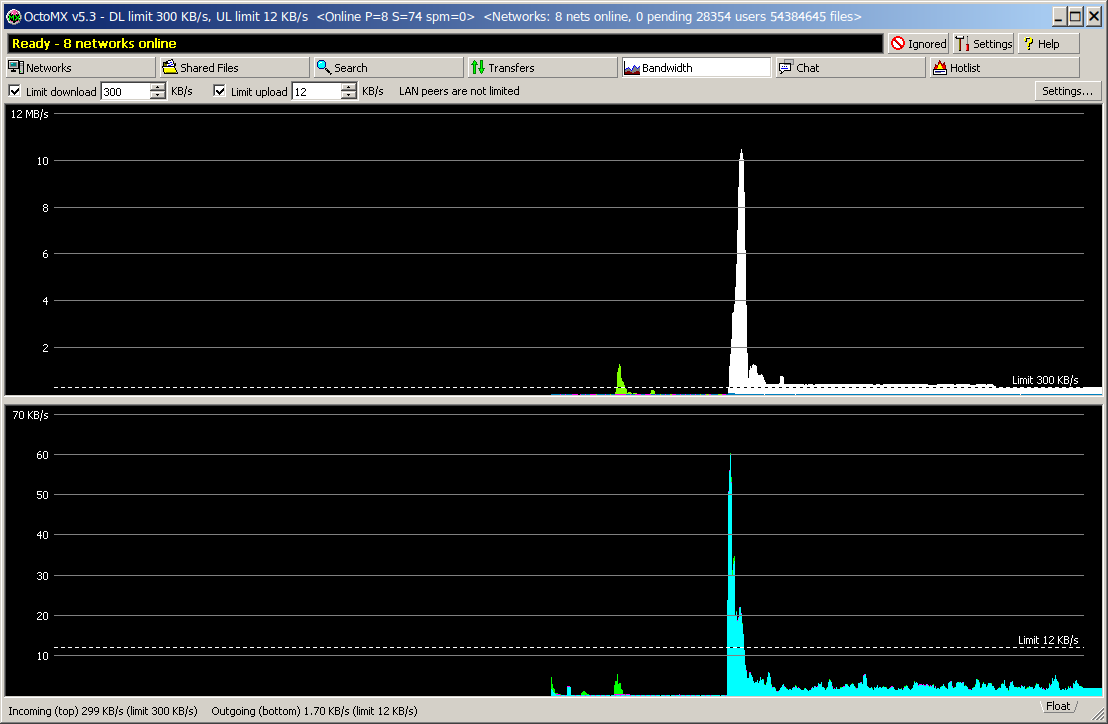
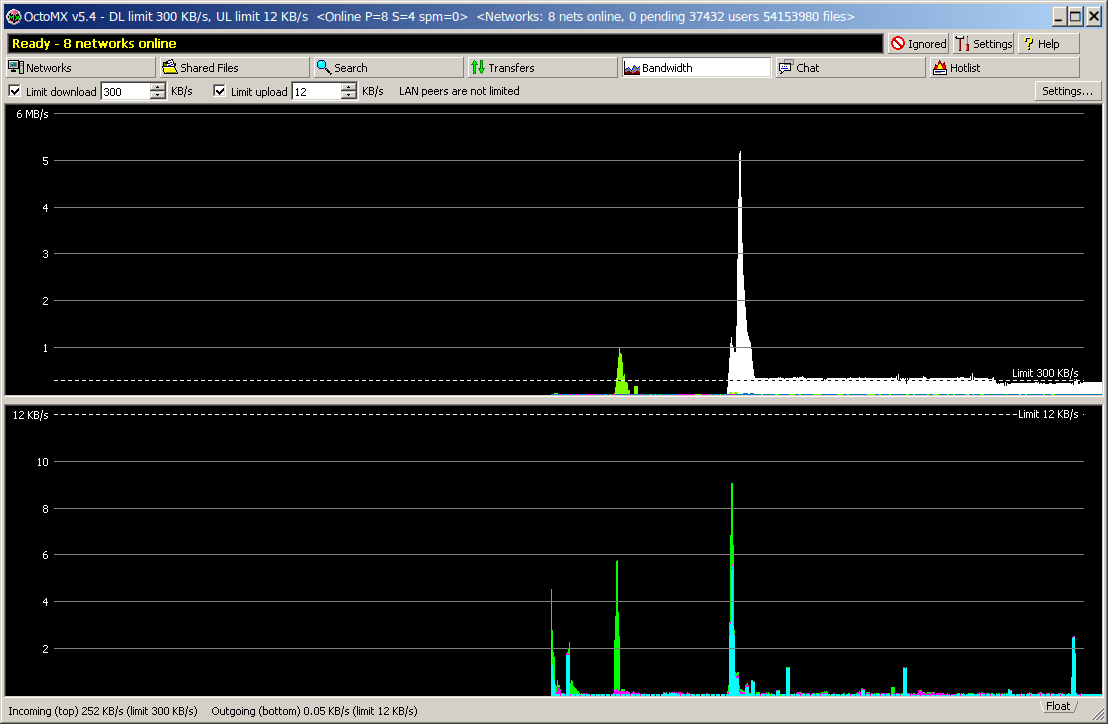
OctoMX 5.4: version and README pictures

diff --git a/src/ui/update_ui.h b/src/ui/update_ui.h
@@ -7,9 +7,9 @@
 // at most once a day unless updates/mode is "off", stays quiet unless a newer version that was not
 // skipped exists, and logs one line otherwise. What a newer release does depends on updates/mode:
 //   auto   (default) download it quietly, check the signature, unpack and check it next to the
-//          program, then the box "OctoMX 5.4 is ready to install" with Restart Now / Later / Skip
+//          program, then the box "OctoMX 5.5 is ready to install" with Restart Now / Later / Skip
 //          This Version (Later: installed when OctoMX is closed, a tray balloon says so once)
-//   ask    the box "OctoMX 5.4 is available" with Update Now (progress bar, then the same restart
+//   ask    the box "OctoMX 5.5 is available" with Update Now (progress bar, then the same restart
 //          question) / Remind Me Later / Skip This Version and the download page as a link
 //   notify the classic message box: Open Download Page / Remind Me Later / Skip This Version
 //   off    no check at start; Help ▸ Check for Updates... still asks
@@ -19,7 +19,7 @@
 // The install itself runs when OctoMX closes (finishOnExit(), called by main.cpp after the core has
 // shut down); after Restart Now the new version is started with the same options. At the next start
 // startupRecovery() finishes or undoes an interrupted swap and removes the old files; the first
-// start after an update shows "Updated to OctoMX 5.4" with a What's New link.
+// start after an update shows "Updated to OctoMX 5.5" with a What's New link.
 //
 // Network policy (tests and scripted runs never contact GitHub): the app sets On for a real core with
 // a user profile, IfUrlSet for a test or scripted run (MX_OS_ROOT is set), Off for
@@ -63,8 +63,8 @@ public:
     enum class State { Idle, Checking, Downloading, Preparing, Ready };
     struct Offer {
         Kind kind = Kind::Notify;
-        QString version;   // "5.4"
-        QString current;   // "5.3"
+        QString version;   // "5.5"
+        QString current;   // "5.4"
         QString notes;     // plain text excerpt
         QString pageUrl;   // what Open Download Page / What's New opens
         QString reason;    // why there is no automatic install (Notify), empty otherwise
@@ -88,11 +88,11 @@ public:
     bool startCheckDue() const;
     void scheduleStartCheck(int delayMs = -1);
     bool isChecking() const;
-    QString currentVersion() const;   // MX_VERSION_FULL, e.g. "5.3.0"
+    QString currentVersion() const;   // MX_VERSION_FULL, e.g. "5.4.0"
     QString mode() const;             // updates/mode: auto | ask | notify | off
     State state() const { return m_state; }
     QString readyVersion() const;     // the prepared update (State::Ready)
-    // one line for the About box: "OctoMX 5.3 is up to date" / "OctoMX 5.4 is available" / ...
+    // one line for the About box: "OctoMX 5.4 is up to date" / "OctoMX 5.5 is available" / ...
     QString statusLine() const;
 
     // show what a check with this answer would show (manual = the answers of Help ▸ Check for

diff --git a/src/ui/dialogs/about_dialog.cpp b/src/ui/dialogs/about_dialog.cpp
@@ -46,7 +46,7 @@ AboutDialog::AboutDialog(mx::Core *core, QWidget *parent) : QDialog(parent)
                            core->isMock() ? tr("\nDemo mode: no network connections are made.") : QString()));
     info->setObjectName(QStringLiteral("aboutText"));
     info->setGeometry(SR(56, 30, 450, 106));
-    // [upd-1] what the update check found, right of the title: "OctoMX 5.3 is up to date." / "... 5.4 is available ..."
+    // [upd-1] what the update check found, right of the title: "OctoMX 5.4 is up to date." / "... 5.5 is available ..."
     if (UpdateController *u = UpdateController::of(qobject_cast<MainWindow *>(parent))) {
         auto *upd = new QLabel(u->statusLine(), this);
         upd->setObjectName(QStringLiteral("aboutUpdateStatus"));

diff --git a/src/api/mx/types.h b/src/api/mx/types.h
@@ -16,10 +16,10 @@
 // [post-1] defined by the top-level CMakeLists.txt from project(OctoMX VERSION ...); these
 // fallbacks only serve a build without it
 #ifndef MX_VERSION_FULL
-#define MX_VERSION_FULL "5.3.0"
+#define MX_VERSION_FULL "5.4.0"
 #endif
 #ifndef MX_VERSION_STRING
-#define MX_VERSION_STRING "5.3"
+#define MX_VERSION_STRING "5.4"
 #endif
 
 namespace mx {

diff --git a/docs/UI_SPEC.md b/docs/UI_SPEC.md
@@ -1473,7 +1473,7 @@ Fidelity checks must treat these as intentional (the classic forms stay reachabl
   "Load Standard ... Defaults" buttons choose the theme and reset every colour.
 * **Help button** [post-1]: a click pops a small menu `About OctoMX...` (bold default) / `Check for
   Updates...` (F1 still opens About directly); the About box has `Check for Updates...` left of OK.
-  The update box is a classic message box titled `OctoMX`: "OctoMX 5.4 is available (you have 5.3)."
+  The update box is a classic message box titled `OctoMX`: "OctoMX 5.5 is available (you have 5.4)."
   with the first lines of the release notes as plain text and `Open Download Page` / `Remind Me Later`
   / `Skip This Version`. Settings ▸ Miscellaneous ▸ System Integration has an `Updates` group with
   "Check for a new version at start (at most once a day)" (updates/checkAtStart, default on).
@@ -1485,19 +1485,19 @@ Fidelity checks must treat these as intentional (the classic forms stay reachabl
   downloading a new version` (ask) / `Only tell me, I install it myself` (notify, the classic box) / `Do
   not check at start` (off). A profile with the earlier check box off gets `off` (migrated once).
   auto: the start check downloads a newer signed release quietly, then a small box titled `OctoMX`
-  (information icon, plain text) says "OctoMX 5.4 is ready to install (you have 5.3)." with the
+  (information icon, plain text) says "OctoMX 5.5 is ready to install (you have 5.4)." with the
   first lines of the release notes, "The download was checked against the OctoMX release
   signature.", with running downloads "Your 3 running downloads continue after the restart.", and
   `Restart Now` (default) / `Later` / `Skip This Version`; Later (also Escape or the close button)
   installs it when OctoMX is closed and a tray balloon says so once. ask, and always for Help ▸ Check
-  for Updates...: "OctoMX 5.4 is available (you have 5.3)." with `Update Now` (a box with a progress
+  for Updates...: "OctoMX 5.5 is available (you have 5.4)." with `Update Now` (a box with a progress
   bar, `Hide` / `Cancel`, then the ready box) / `Remind Me Later` / `Skip This Version` and `Open
   Download Page` as a link below the text. When the program cannot install a release itself (not a
   published package, a folder it cannot write, a release without signature, a download or check that
   failed), the classic box appears with the reason above the last line. The first start after an update
-  shows "Updated to OctoMX 5.4 (from 5.3)." with `What's New` (the release page) / `OK`. The About
-  box has one line under the description: "OctoMX 5.3 is up to date." / "OctoMX 5.4 is available
-  (you have 5.3)." / "... is ready to install ..." / "..., not checked for updates yet.".
+  shows "Updated to OctoMX 5.5 (from 5.4)." with `What's New` (the release page) / `OK`. The About
+  box has one line under the description: "OctoMX 5.4 is up to date." / "OctoMX 5.5 is available
+  (you have 5.4)." / "... is ready to install ..." / "..., not checked for updates yet.".
   Deviations: these boxes are not part of WinMX 3.53 (it had no updater); they are drawn as classic
   message boxes with our own buttons. Deliberate choices: the staging folder is inside the program
   folder (`.new-<version>`, same volume, only the program folder must be writable) instead of next
@@ -1684,7 +1684,7 @@ Fidelity checks must treat these as intentional (the classic forms stay reachabl
   BitTorrent piece hashes)`. With the setting `search/mergeByNameAndSize` off (default on), only plain
   files with equal normalised names merge (a bundle never meets a non-bundle).
 * **The name OctoMX** [ren-1] (owner: "as a name I choose OctoMX"; "OctoMX is the only version and
-  name we use"): every place where the program names itself says OctoMX (title `OctoMX v5.3`,
+  name we use"): every place where the program names itself says OctoMX (title `OctoMX v5.4`,
   `About OctoMX...`, `Exit OctoMX`, message box titles, the `OctoMX Peer Network` tabs and pages, the
   network name `OctoMX` in the Network columns, the default room `OctoMX Lobby`). Where it describes
   itself it says that its interface is in the style of the classic WinMX, with the statement that it

diff --git a/README.md b/README.md
@@ -36,7 +36,7 @@ responsibility; the authors are not responsible for the content exchanged with i
 start the program asks you to accept these terms before it connects to any network. See
 [Legal](#legal).
 
-Version 5.3 for Windows 10/11 (64-bit) and Linux (x86_64). Project page:
+Version 5.4 for Windows 10/11 (64-bit) and Linux (x86_64). Project page:
 https://github.com/robtacconelli/OctoMX
 
 > **Licence:** OctoMX is free software under the **GNU General Public License v3.0 or later**
@@ -61,8 +61,8 @@ found); the "Filter results" field narrows the list:
 
 ![Search results for Big Buck Bunny from several networks, one merged row opened, filtered](docs/screenshots/search.png)
 
-That row downloading: one download fed by a BitTorrent swarm and a Kad source at the same time,
-with one line per source and per network. The bar in the Status column is a map of the file: blue
+A merged row downloading: one download fed by an eD2k source, a BitTorrent swarm and the Internet
+Archive's HTTP mirror at the same time, with one line per source and per network. The bar in the Status column is a map of the file: blue
 parts are on disk and verified, green ones are arriving right now. A download limit of 450 KB/s
 is set (title bar). In the classic dark colours and in the light theme:
 
@@ -88,9 +88,9 @@ built-in demo data:
 
 | | |
 |---|---|
-| **Windows** | Unzip `OctoMX-5.3-win64.zip` anywhere and double-click `octomx.exe`. Nothing is installed. Windows Firewall may ask whether OctoMX may accept connections. |
-| **Linux** | `tar xf OctoMX-5.3-linux-x86_64.tar.xz` and run `OctoMX-5.3-linux-x86_64/octomx`. Qt does not need to be installed. Run `./install-desktop-entry.sh` once for a menu entry and icon. |
-| **macOS** | Unzip `OctoMX-5.3-macos-universal.zip` (one app for Apple Silicon and Intel Macs, macOS 14.4 or newer) and drag `OctoMX.app` into Applications. The first time, right-click `OctoMX.app` and choose **Open**, then **Open** again (on macOS 15: System Settings > Privacy & Security > **Open Anyway**): the app has no Apple Developer ID signature. `README-mac.txt` in the archive has the details. |
+| **Windows** | Unzip `OctoMX-5.4-win64.zip` anywhere and double-click `octomx.exe`. Nothing is installed. Windows Firewall may ask whether OctoMX may accept connections. |
+| **Linux** | `tar xf OctoMX-5.4-linux-x86_64.tar.xz` and run `OctoMX-5.4-linux-x86_64/octomx`. Qt does not need to be installed. Run `./install-desktop-entry.sh` once for a menu entry and icon. |
+| **macOS** | Unzip `OctoMX-5.4-macos-universal.zip` (one app for Apple Silicon and Intel Macs, macOS 14.4 or newer) and drag `OctoMX.app` into Applications. The first time, right-click `OctoMX.app` and choose **Open**, then **Open** again (on macOS 15: System Settings > Privacy & Security > **Open Anyway**): the app has no Apple Developer ID signature. `README-mac.txt` in the archive has the details. |
 
 `SHA256SUMS` next to the archives has their checksums.
 
